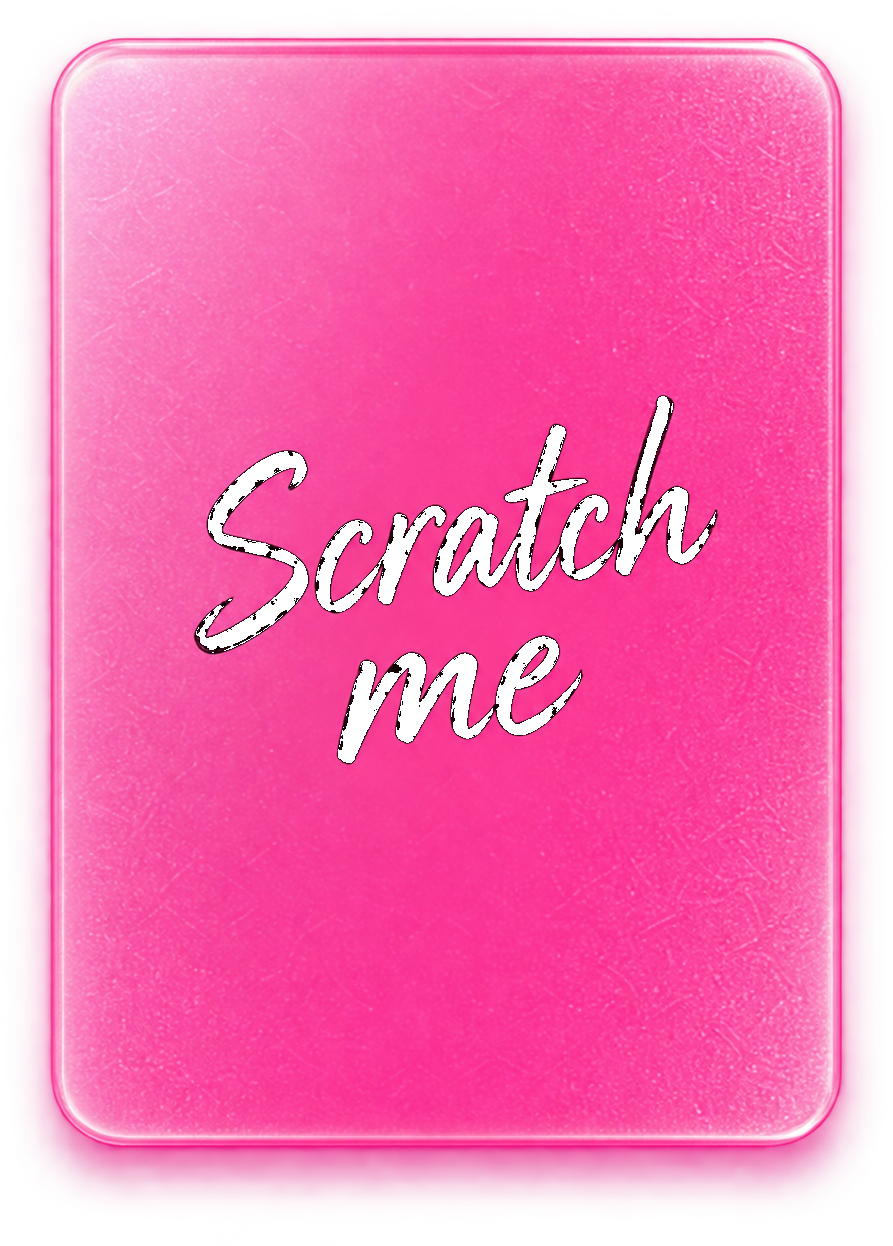
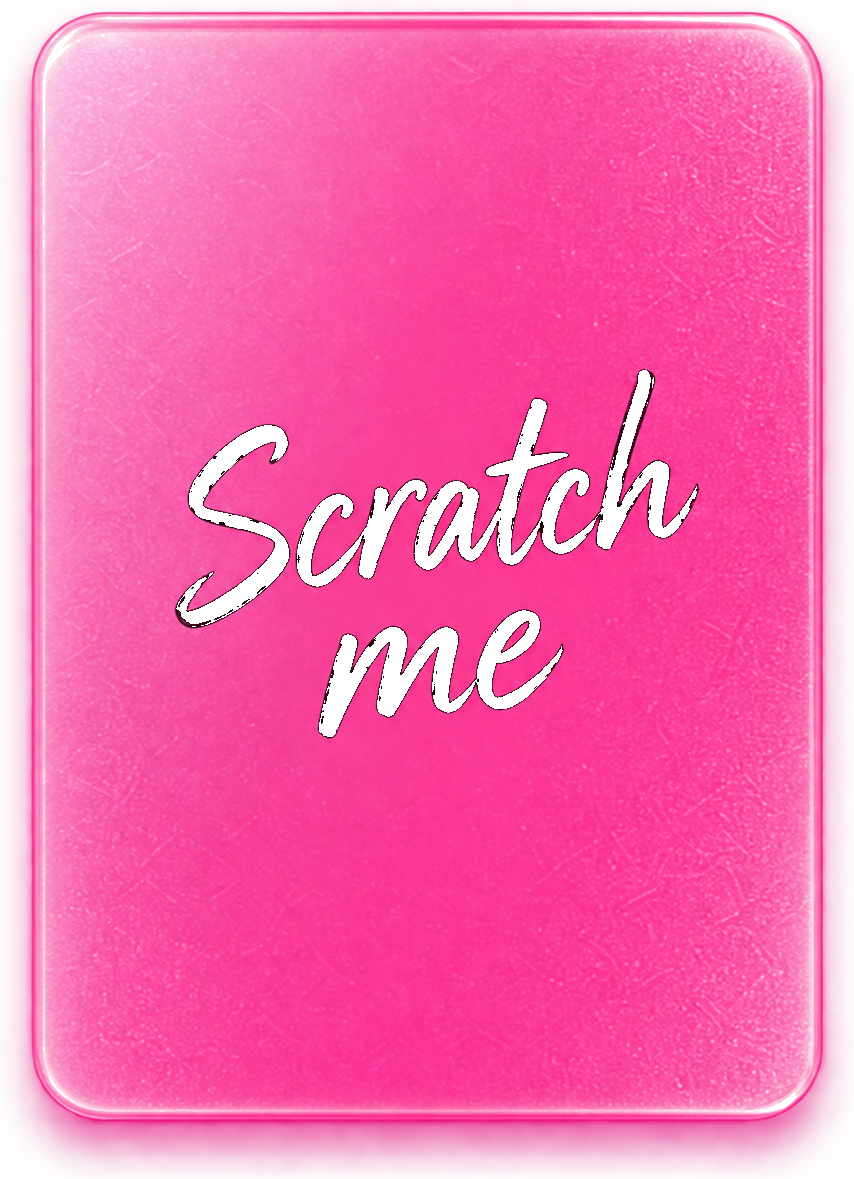
Fix desktop gate pink, scale, and scratch wrapper
Use one CSS pink canvas matching the composition, centre a ~50%
larger stage that can clip the forearm at the viewport edge, and
render the transparent scratch overlay without a visible box wrapper.

diff --git a/desktop-gate/styles.css b/desktop-gate/styles.css
@@ -9,7 +9,8 @@
 @media (min-width: 768px) {
   body.page-about {
     overflow: hidden;
-    background: #fb2fa3;
+    /* Single flat pink canvas — matches composition asset pink */
+    background: #f92ea5;
   }
 
   body.page-about > .skip-link,
@@ -20,26 +21,31 @@
   }
 
   .desktop-gate {
-    display: grid;
-    justify-items: center;
-    align-items: end;
+    display: block;
     position: fixed;
     inset: 0;
     z-index: 10000;
     box-sizing: border-box;
-    padding: clamp(1.25rem, 3.5vw, 3rem) clamp(1.25rem, 3.5vw, 3rem) 0;
-    background: #fb2fa3;
+    /* Continuous CSS pink; composition asset sits on top (transparent-ready) */
+    padding: 0;
+    overflow: hidden;
+    background: #f92ea5;
   }
 
+  /*
+    ~50% larger than the previous viewport-fitted stage (~1220×648).
+    Absolutely centred; may exceed the viewport so the forearm still
+    exits through the bottom edge without bottom-anchoring the layout.
+  */
   .desktop-gate__stage {
-    position: relative;
-    width: min(
-      100%,
-      72rem,
-      calc((100vh - clamp(1.25rem, 3.5vw, 3rem)) * 1721 / 914)
-    );
+    position: absolute;
+    left: 50%;
+    top: 50%;
+    transform: translate(-50%, -50%);
+    width: min(120rem, 130vw);
     aspect-ratio: 1721 / 914;
-    max-height: calc(100vh - clamp(1.25rem, 3.5vw, 3rem));
+    max-height: none;
+    background: transparent;
   }
 
   .desktop-gate__bg {
@@ -47,13 +53,14 @@
     width: 100%;
     height: 100%;
     object-fit: contain;
-    object-position: center bottom;
+    object-position: center center;
     pointer-events: none;
     user-select: none;
     -webkit-user-drag: none;
+    background: transparent;
   }
 
-  /* Phone display — percentages from new desktop-mobile-gate-bg.png (1721×914) */
+  /* Phone display — percentages from desktop-mobile-gate-bg.png (1721×914) */
   .desktop-gate__screen {
     position: absolute;
     left: 58.745%;
@@ -94,30 +101,45 @@
     top: 58.5%;
     z-index: 2;
     transform: translateX(-50%);
+    background: transparent;
   }
 
   .scratch-card {
-    /* Match scratch-card-overlay.png proportions (~1.395) */
+    /* Match scratch-card-overlay.png proportions */
     --scratch-w: clamp(4.5rem, 8.2vw, 6rem);
     position: relative;
     width: var(--scratch-w);
-    height: calc(var(--scratch-w) * 1.395);
-    border-radius: 18%;
-    overflow: hidden;
-    box-shadow: 0 8px 20px rgba(60, 5, 30, 0.16);
+    height: calc(var(--scratch-w) * 1.381);
+    background: transparent;
+    border: 0;
+    outline: none;
+    padding: 0;
+    overflow: visible;
+    box-shadow: none;
   }
 
+  /*
+    White QR reveal — sized to the opaque pink card body inside the
+    overlay asset (not the soft glow), so it never shows as a box
+    around the frosted graphic.
+  */
   .scratch-card__face {
     position: absolute;
-    inset: 0;
+    left: 3.75%;
+    right: 3.6%;
+    top: 1%;
+    bottom: 4.75%;
     display: flex;
     flex-direction: column;
     align-items: center;
     justify-content: flex-start;
     box-sizing: border-box;
-    padding: 12% 12% 11%;
+    padding: 11% 11% 10%;
+    margin: 0;
     background: #ffffff;
-    border-radius: inherit;
+    border: 0;
+    border-radius: 18%;
+    box-shadow: 0 10px 24px rgba(60, 5, 30, 0.18);
   }
 
   .scratch-card__qr {
@@ -149,10 +171,15 @@
     height: 100%;
     touch-action: none;
     cursor: crosshair;
-    border-radius: inherit;
+    background: transparent;
+    border: 0;
+    outline: none;
+    /* Soft lift for the frosted overlay graphic itself */
+    filter: drop-shadow(0 8px 16px rgba(60, 5, 30, 0.18));
   }
 
   .scratch-card__canvas.is-done {
     pointer-events: none;
+    filter: none;
   }
 }

diff --git a/index.html b/index.html
@@ -16,7 +16,7 @@
     />
     <link rel="stylesheet" href="freedom/styles.css?v=about-42" />
     <link rel="stylesheet" href="about/theme.css?v=about-37" />
-    <link rel="stylesheet" href="desktop-gate/styles.css?v=gate-4" />
+    <link rel="stylesheet" href="desktop-gate/styles.css?v=gate-5" />
   </head>
   <body class="page-about">
     <div class="desktop-gate" aria-label="Open this portfolio on your phone">
@@ -703,6 +703,6 @@
 
     <script src="freedom/main.js?v=about-37" defer></script>
     <script src="about/about.js?v=about-37" defer></script>
-    <script src="desktop-gate/gate.js?v=gate-4" defer></script>
+    <script src="desktop-gate/gate.js?v=gate-5" defer></script>
   </body>
 </html>
